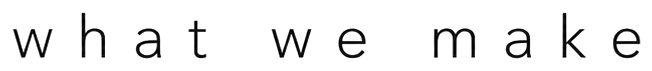
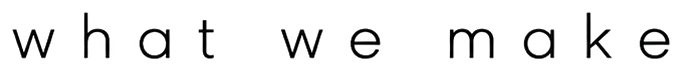
Add THE above SHELF LIFE in the section 5 heading
Crops the new reference image into three lines (THE / SHELF LIFE /
what we make), each scaled to the same cap-height used across the
BISCUIT/DEPARTMENT/KANAZAWA heading.

Claude-Session: https://claude.ai/code/session_01U675Sgsp12pN5oKdY9w3z6

diff --git a/index.html b/index.html
@@ -54,6 +54,7 @@
 
 <section class="section-5">
   <div class="section5-heading">
+    <img src="assets/img/section5-the.png" alt="THE" class="section5-heading-image section5-heading-image--the">
     <img src="assets/img/section5-title.png" alt="SHELF LIFE" class="section5-heading-image section5-heading-image--title">
     <img src="assets/img/section5-subtitle.png" alt="what we make" class="section5-heading-image section5-heading-image--subtitle">
   </div>

diff --git a/assets/css/style.css b/assets/css/style.css
@@ -188,8 +188,13 @@ body {
   margin: 0 auto;
 }
 
+.section5-heading-image--the {
+  width: 51px;
+}
+
 .section5-heading-image--title {
-  width: 159px;
+  width: 157px;
+  margin-top: 6px;
 }
 
 .section5-heading-image--subtitle {
